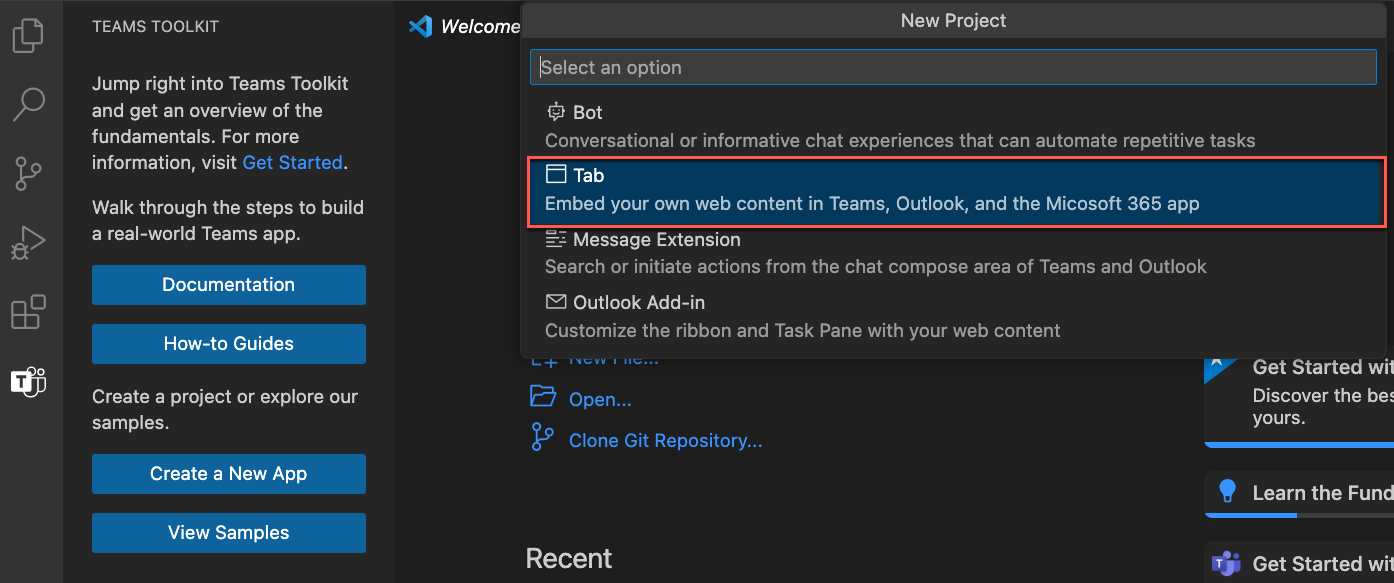
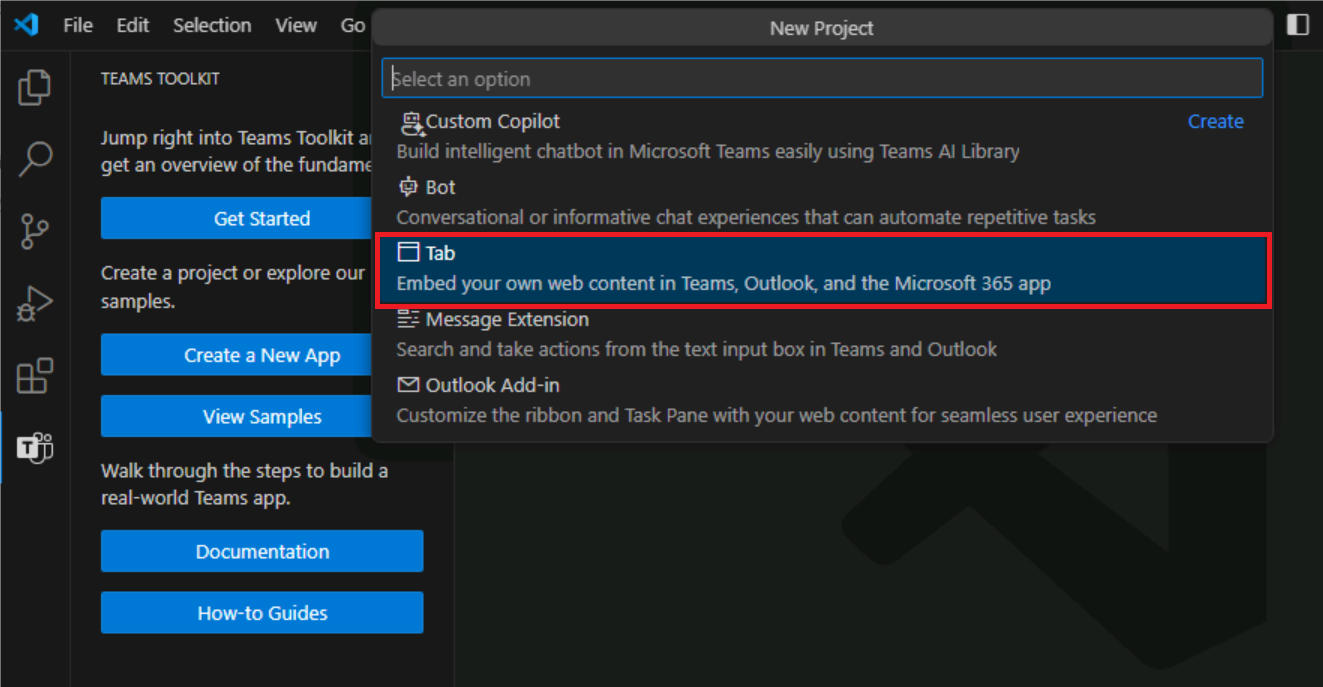
target to teams toolkit v5.8.0

diff --git a/Instructions/Labs/3-Guided-project/6-Exercise 5.md b/Instructions/Labs/3-Guided-project/6-Exercise 5.md
@@ -34,8 +34,10 @@ Use the AI Chat Bot template to create a new bot:
 1. Open Visual Studio Code.
 1. On the sidebar, select the **Microsoft Teams** icon to open the **TEAMS TOOLKIT** panel.
 1. Select **Create a New App** button.
-1. From the **New Project** menu, select **Bot** then select **AI Chat Bot** to build a command bot.
+1. From the **New Project** menu, select **Custom Copilot** then select **Basic AI Chatbot** to build a command bot.
 1. For Programming Language, select **TypeScript**.
+1. For **Service for Large Language Model(LLMs)**, choose either **Azure OpenAI** or **OpenAI** based on your LLM account.
+1. Enter your OpenAI key and endpoint as prompted based on your LLM account type. Or press Enter to skip first. Set up the OpenAI key in the next step.
 1. For **workspace folder** select or create a folder to store your project files on your computer.
 1. For **Application name**, enter **WeeklyReportChatBot** then press **Enter**. Teams Toolkit will scaffold a new app and open the project folder in Visual Studio Code.
 1. You may receive a message from Visual Studio Code that asks if you trust the authors of the files in this folder. Select the **Yes, I trust the authors** button to continue.
@@ -49,29 +51,12 @@ Use the AI Chat Bot template to create a new bot:
 1. Open the file `.env.local.user` from the `env` folder.
 1. In the file *env/.env.local.user*, fill in your OpenAI key `SECRET_OPENAI_API_KEY=<your-key>`.
 1. Open the file `app.ts` from the `src` folder.
-1. (Optional) Since this demonstration uses the model's planning capabilities, gpt-4 offers a significant improvement over the default gpt-3.5 output. In the file *src/app.ts*, in the *Create AI components* section, change `defaultModel: "gpt-3.5-turbo"` to `defaultModel: "gpt-4"` or `defaultModel: "gpt-4-turbo"`.
+1. (Optional) Since this demonstration uses the model's planning capabilities, gpt-4 offers a significant improvement over the default gpt-3.5 output. In the file *src/config.ts*, update *openAIModelName* property value from `"gpt-3.5-turbo"` to `"gpt-4"` or `"gpt-4-turbo"`.
 
 ### User Azure OpenAI
 1. Open the file `.env.local.user` from the `env` folder.
-1. In the file *env/.env.local.user*, fill in your Azure OpenAI key `SECRET_AZURE_OPENAI_API_KEY=<azure-openai-api-key>` and Azure OpenAI Endpoint `SECRET_AZURE_OPENAI_ENDPOINT=<azure-openai-endpoint>`.
-1. Open the file `app.ts` from the `src` folder.
-1. In the file *src/app.ts*, *Create AI components* section, comment out *"Use OpenAI"* part and uncomment *"use Azure OpenAI"* part, then update `azureDefaultDeployment` to your own model deployment name.
-    ```typescript
-    // Create AI components
-    const model = new OpenAIModel({
-      // Use OpenAI
-      // apiKey: config.openAIKey,
-      // defaultModel: "gpt-3.5-turbo",
-
-      // Uncomment the following lines to use Azure OpenAI
-      azureApiKey: config.azureOpenAIKey,
-      azureDefaultDeployment: "gpt-4", //update to your model name
-      azureEndpoint: config.azureOpenAIEndpoint,
-
-      useSystemMessages: true,
-      logRequests: true,
-    });
-    ```
+1. In the file *env/.env.local.user*, fill in your Azure OpenAI key `SECRET_AZURE_OPENAI_API_KEY=<azure-openai-api-key>` and Azure OpenAI Endpoint `AZURE_OPENAI_ENDPOINT=<azure-openai-endpoint>` and Azure OpenAI Deployment name
+`AZURE_OPENAI_DEPLOYMENT_NAME=<azure-openai-deployment-name>`.
 
 ## Task3: Implement code functionality
 

diff --git a/Instructions/Labs/1-Get-started-teams-toolkit/1-1-Install-setup-teams-toolkit.md b/Instructions/Labs/1-Get-started-teams-toolkit/1-1-Install-setup-teams-toolkit.md
@@ -10,7 +10,7 @@ In this exercise, you'll install Teams Toolkit for Visual Studio Code and set up
 
 ![Screenshot of installing Teams Toolkit on Visual Studio Code.](../../media/teams-toolkit-install.png)
 
-**Note**:  The exercises in this module use Teams Toolkit v5.6.0. Please note that minor versions may vary.
+**Note**:  The exercises in this module use Teams Toolkit v5.8.0. Please note that minor versions may vary.
 
 You can also install Teams Toolkit from [Visual Studio Marketplace](https://marketplace.visualstudio.com/items?itemName=TeamsDevApp.ms-teams-vscode-extension).
 

diff --git a/Instructions/Labs/2-Deploy-microsoft-teams-app/1-Create-Azure-resources.md b/Instructions/Labs/2-Deploy-microsoft-teams-app/1-Create-Azure-resources.md
@@ -2,7 +2,7 @@
 
 In this exercise, you'll first create and provision a Teams tab app by using Teams Toolkit for Visual Studio Code. In a later exercise, you'll set up the app to be hosted in Azure.
 
-**Note**:  The exercises in this training module use Teams Toolkit v5.6.0. The following steps assume the Teams Toolkit extension is installed.
+**Note**:  The exercises in this training module use Teams Toolkit v5.8.0. The following steps assume the Teams Toolkit extension is installed.
 
 ## Task 1: Create a new tab app
 
